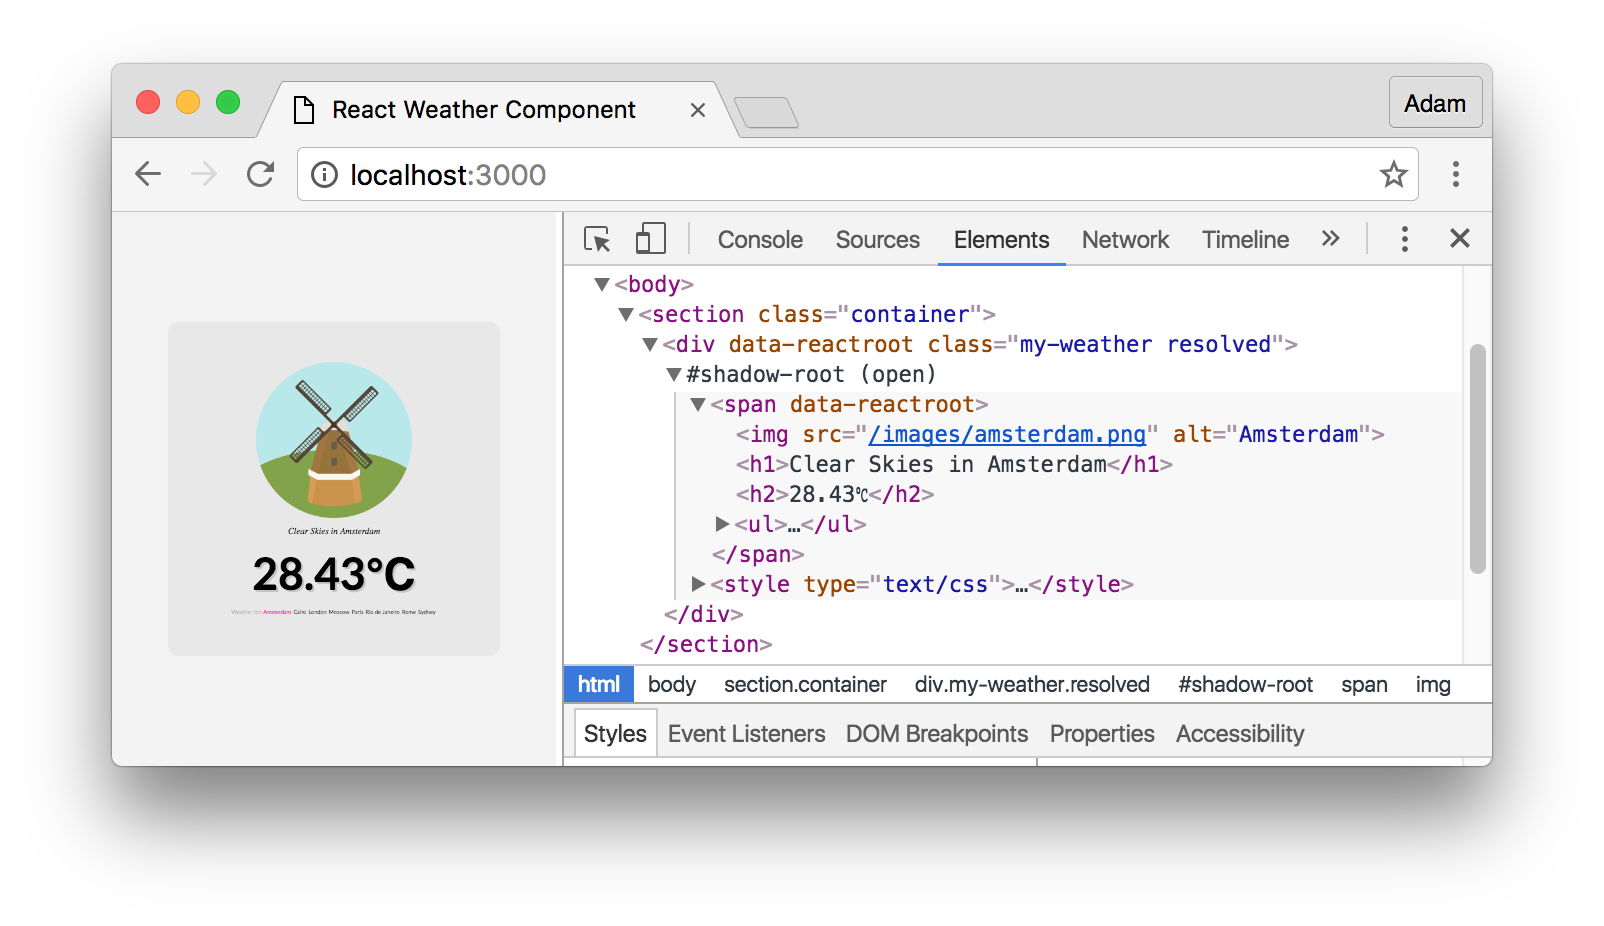
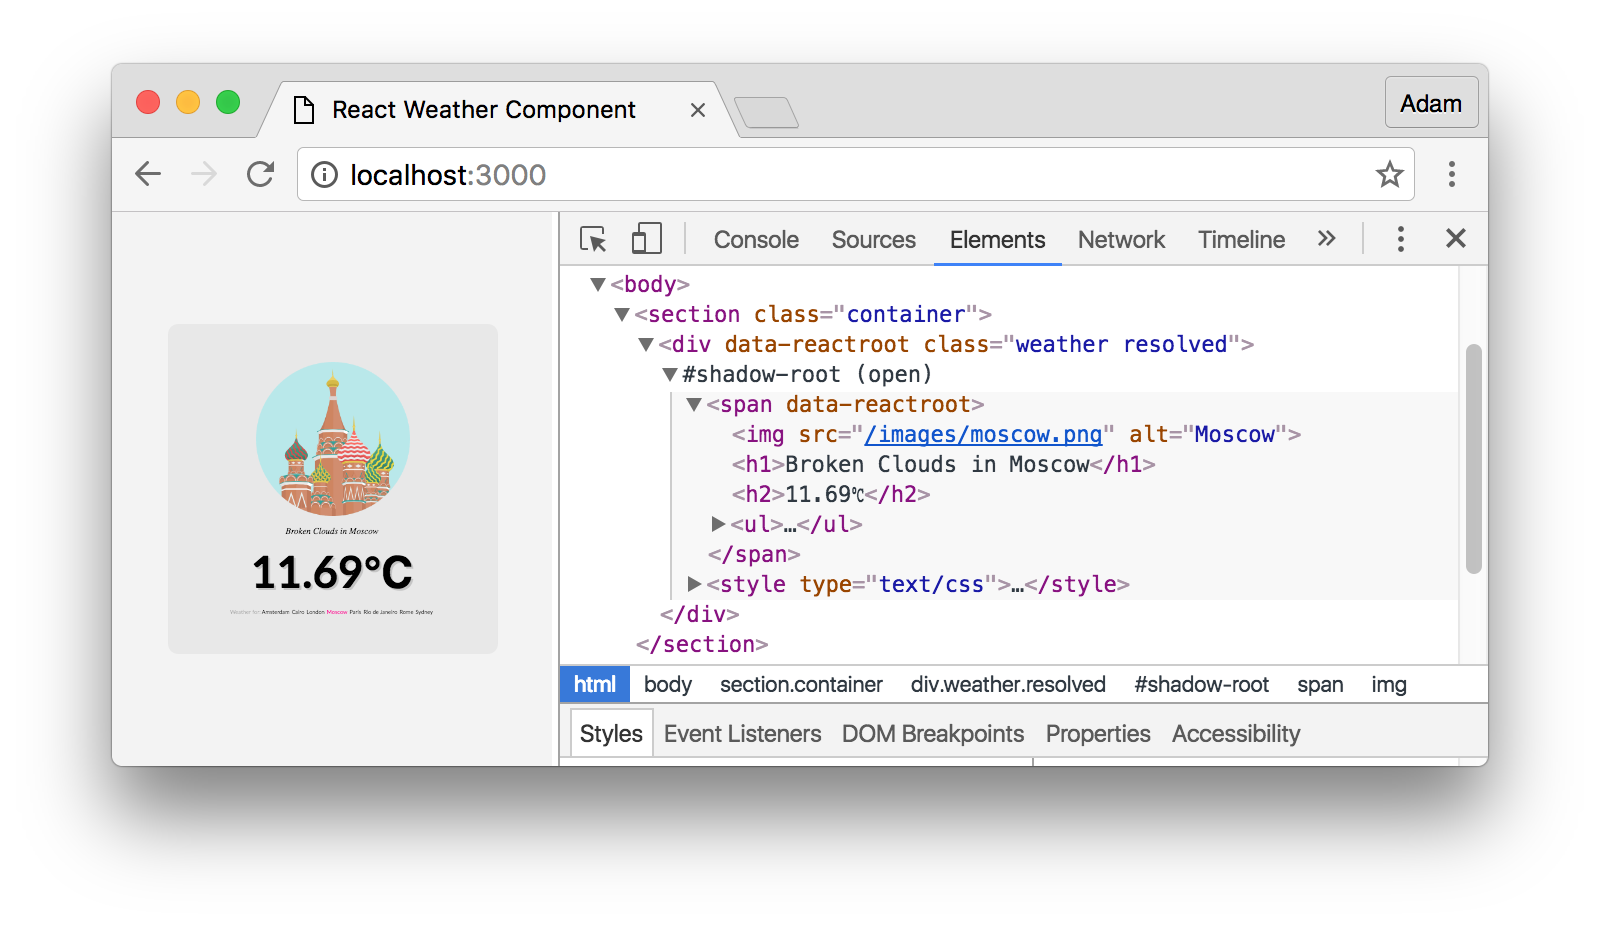
Replaced screenshot

diff --git a/example/js/weather.js b/example/js/weather.js
@@ -77,16 +77,17 @@ export default class extends Component {
 
         const title = weather ? `${description()} in ${country}` : `Weather in ${country}`;
         const label = weather ? `${weather.main.temp}${String.fromCharCode(8451)}` : String.fromCharCode(8212);
+        const fheit = weather ? `${weather.main.temp * 9 / 5 + 32}${String.fromCharCode(8457)}` : '';
 
         return (
             <ShadowDOM cssDocuments="css/country.css">
 
-                <div className="my-weather">
+                <div className="weather">
 
                     <img src={filenameFor(country)} alt={country} />
 
                     <h1>{title}</h1>
-                    <h2>{label}</h2>
+                    <h2 title={fheit}>{label}</h2>
 
                     <ul>
 
